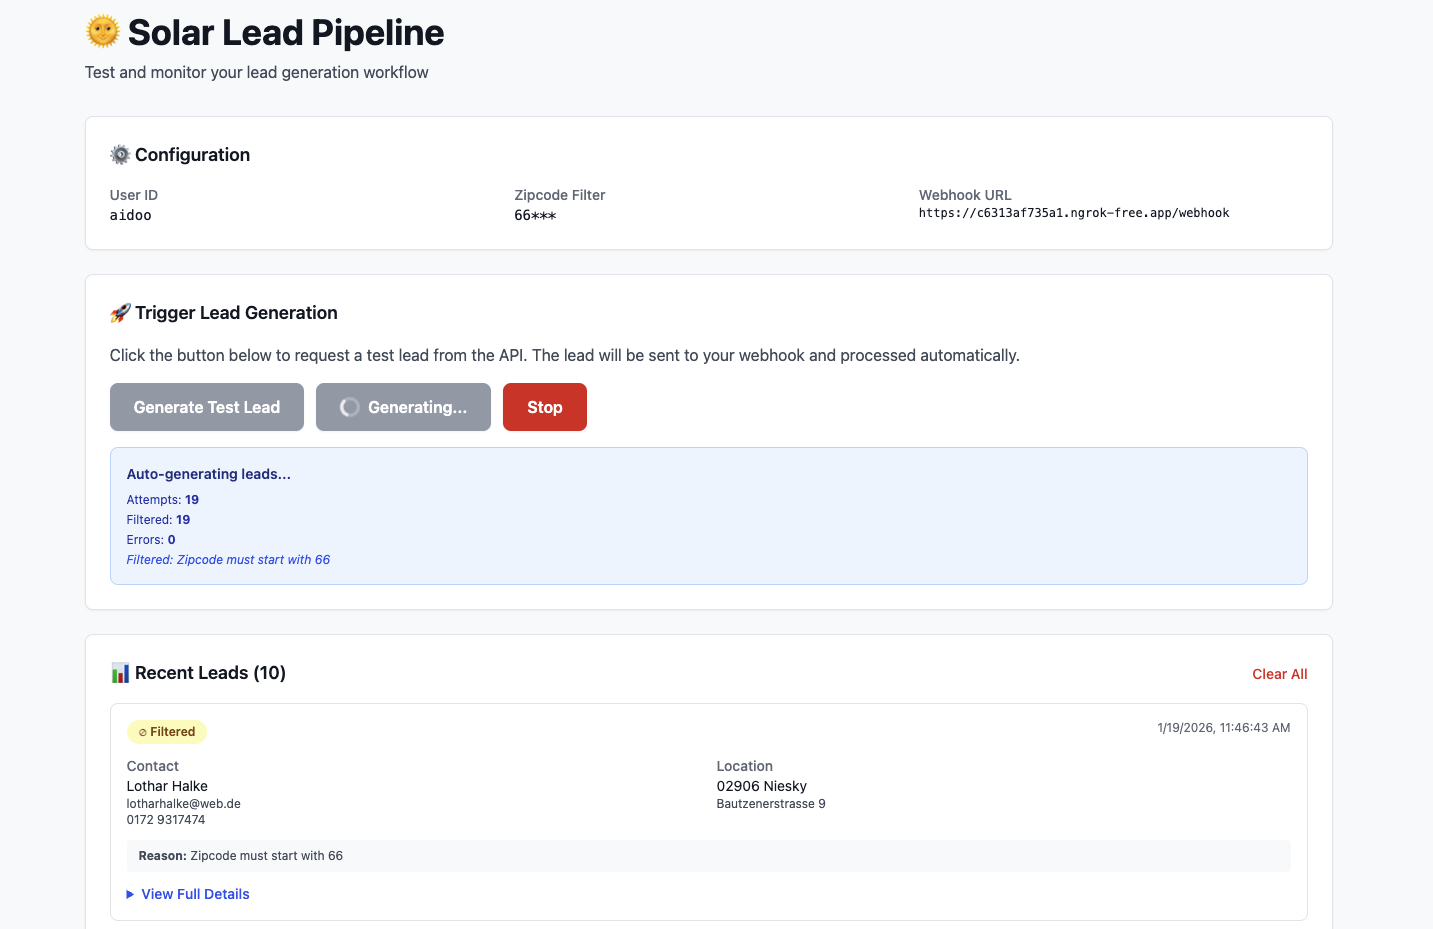
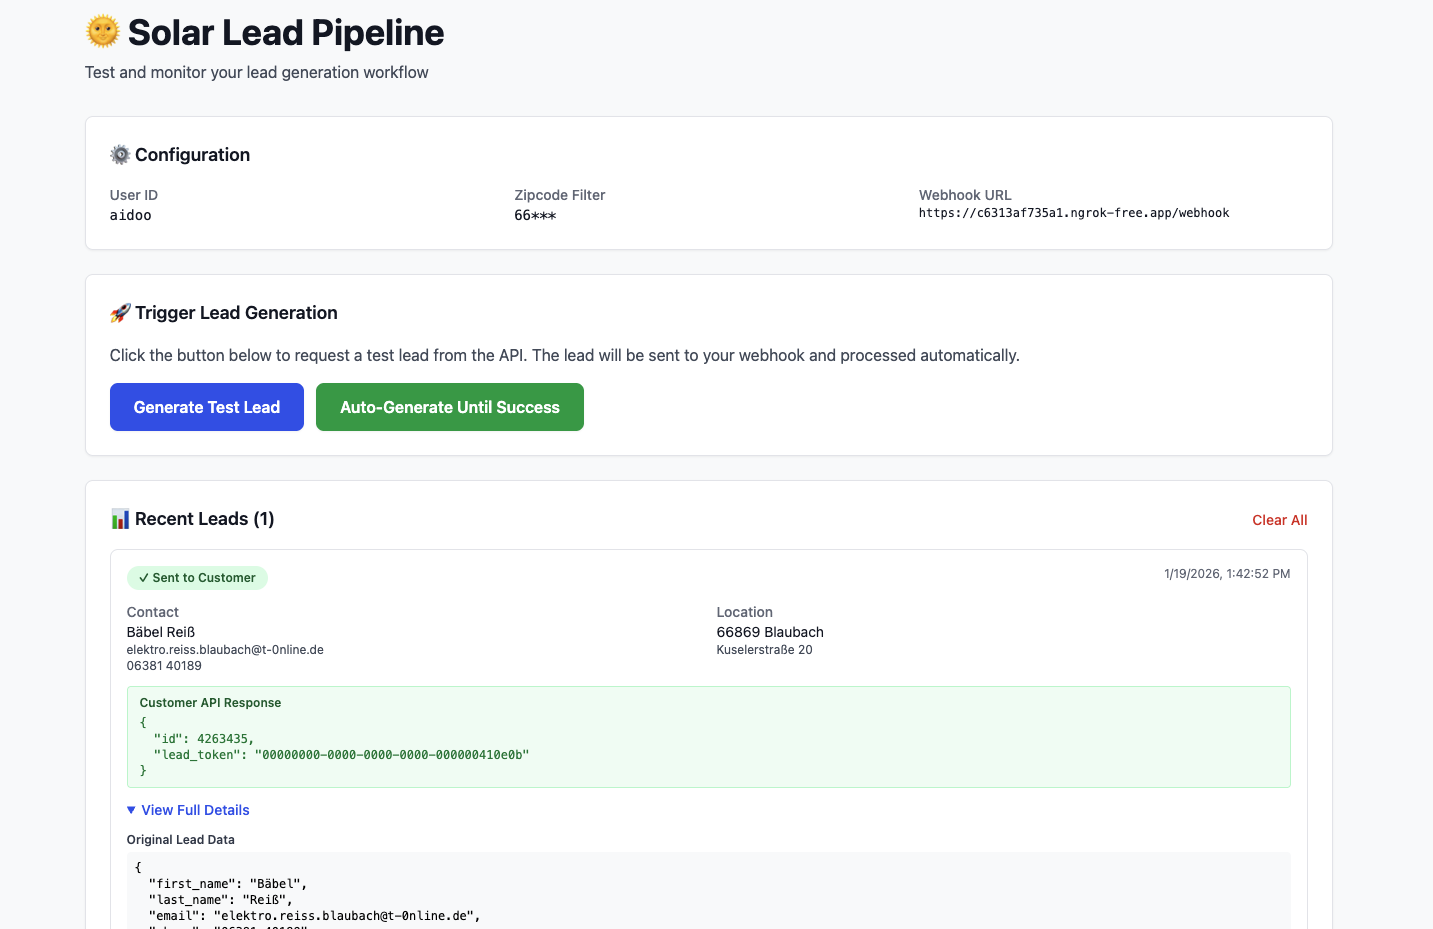
update mapping logic

diff --git a/index.js b/index.js
@@ -20,135 +20,6 @@ const ZIPCODE_PREFIX = "66"
 let recentLeads = []
 const MAX_RECENT_LEADS = 10
 
-// Mappings generated by AI
-const QUESTION_TO_ATTRIBUTE_MAPPING = {
-	"Sind Sie Eigentümer der Immobilie?": {
-		attribute: "solar_owner",
-		valueMapping: {
-			"Ja": "Ja",
-			"ja": "Ja",
-			"true": "Ja",
-			"Nein": "Nein",
-			"nein": "Nein",
-			"false": "Nein",
-			"In Auftrag": "In Auftrag"
-		}
-	},
-	"Welche Dachform haben Sie auf Ihrem Haus?": {
-		attribute: "solar_roof_type",
-		valueMapping: {
-			"Satteldach": "Satteldach",
-			"Flachdach": "Flachdach",
-			"Pultdach": "Pultdach",
-			"Walmdach": "Walmdach",
-			"Mansardendach": "Mansardendach",
-			"Andere": "Andere",
-			"Kaffeemühlenhaus": "Kaffeemühlenhaus",
-			"Krüppelwalmdach": "Krüppelwalmdach",
-			"Versetztes Pultdach": "Versetztes Pultdach",
-			"Winkelwalmdach": "Winkelwalmdach",
-			"Zwerchdach": "Zwerchdach"
-		}
-	},
-	"Wie hoch schätzen Sie ihren Stromverbrauch?": {
-		attribute: "solar_energy_consumption",
-		valueMapping: null
-	},
-	"Wo möchten Sie die Solaranlage installieren?": {
-		attribute: "solar_property_type",
-		valueMapping: {
-			"Einfamilienhaus": "Einfamilienhaus",
-			"Zweifamilienhaus": "Zweifamilienhaus",
-			"Mehrfamilienhaus": "Mehrfamilienhaus",
-			"Mehrfamilienhaus / Wohnanlage": "Mehrfamilienhaus",
-			"Firmengebäude": "Firmengebäude",
-			"Freilandfläche": "Freilandfläche",
-			"Garage": "Garage",
-			"Carport": "Carport",
-			"Scheune/Landwirtschaft": "Scheune/Landwirtschaft",
-			"Lagerhalle": "Lagerhalle",
-			"Industrie": "Industrie"
-		}
-	},
-	"Wie alt ist Ihr Dach?": {
-		attribute: "solar_roof_age",
-		valueMapping: {
-			"Vor 1990": "Älter als 30 Jahre",
-			"Älter als 30 Jahre": "Älter als 30 Jahre",
-			"Jünger als 30 Jahre": "Jünger als 30 Jahre",
-			"Gerade erst gebaut": "Gerade erst gebaut",
-			"Erst in Planung": "Erst in Planung"
-		}
-	},
-	"Dachmaterial": {
-		attribute: "solar_roof_material",
-		valueMapping: {
-			"Dachziegel": "Dachziegel",
-			"Asbest": "Asbest",
-			"Bitumen": "Bitumen",
-			"Blech/Trapezblech": "Blech/Trapezblech",
-			"Gründach": "Gründach",
-			"Holzdach": "Holzdach",
-			"Kies": "Kies",
-			"Schiefer": "Schiefer",
-			"Schindeldach": "Schindeldach",
-			"Andere": "Andere"
-		}
-	},
-	"Dachausrichtung": {
-		attribute: "solar_south_location",
-		valueMapping: {
-			"Süd": "Süd",
-			"Süd/West": "Süd-West",
-			"Süd-West": "Süd-West",
-			"Süd/Ost": "Süd-Ost",
-			"Süd-Ost": "Süd-Ost",
-			"West": "West",
-			"Ost": "Ost",
-			"Ja": "Ja",
-			"Nein": "Nein",
-			"Teilweise": "Teilweise",
-			"Nicht sicher": "Nicht sicher",
-			"Keine (Flachdach)": "Keine (Flachdach)"
-		}
-	},
-	"Stromspeicher gewünscht": {
-		attribute: "solar_power_storage",
-		valueMapping: {
-			"Ja": "Ja",
-			"ja": "Ja",
-			"Nein": "Nein",
-			"nein": "Nein",
-			"Noch nicht sicher": "Noch nicht sicher",
-			"Nicht sicher": "Noch nicht sicher"
-		}
-	},
-	"Finanzierung": {
-		attribute: "solar_offer_type",
-		valueMapping: {
-			"Kaufen": "Kaufen",
-			"Mieten": "Mieten",
-			"Beides interessant": "Beides interessant",
-			"Nicht sicher": "Beides interessant"
-		}
-	},
-	"Dachfläche": {
-		attribute: "solar_area",
-		valueMapping: null
-	}
-}
-
-const VALID_ATTRIBUTE_VALUES = {
-	solar_owner: ["Ja", "Nein", "In Auftrag"],
-	solar_roof_type: ["Andere", "Flachdach", "Kaffeemühlenhaus", "Krüppelwalmdach", "Mansardendach", "Pultdach", "Satteldach", "Versetztes Pultdach", "Walmdach", "Winkelwalmdach", "Zwerchdach"],
-	solar_property_type: ["Einfamilienhaus", "Zweifamilienhaus", "Mehrfamilienhaus", "Firmengebäude", "Freilandfläche", "Garage", "Carport", "Scheune/Landwirtschaft", "Lagerhalle", "Industrie"],
-	solar_roof_age: ["Erst in Planung", "Gerade erst gebaut", "Jünger als 30 Jahre", "Älter als 30 Jahre"],
-	solar_roof_material: ["Asbest", "Bitumen", "Blech/Trapezblech", "Dachziegel", "Gründach", "Holzdach", "Kies", "Schiefer", "Schindeldach", "Andere"],
-	solar_south_location: ["Ja", "Nein", "Teilweise", "Nicht sicher", "Keine (Flachdach)", "Süd", "Süd-West", "Süd-Ost", "West", "Ost"],
-	solar_power_storage: ["Ja", "Nein", "Noch nicht sicher"],
-	solar_offer_type: ["Beides interessant", "Mieten", "Kaufen"]
-}
-
 function isHouseOwner(lead) {
 	const ownershipQuestion = lead.questions["Sind Sie Eigentümer der Immobilie?"]
 	if (!ownershipQuestion) return false
@@ -166,53 +37,98 @@ function splitStreetAndHouseNumber(street) {
 	]
 }
 
-function mapLeadAttributes(questions) {
-	const attributes = {}
-	const unmappedWarnings = []
-	
-	for (const [question, answer] of Object.entries(questions)) {
-		if (!answer || answer === "") continue
-		
-		const mapping = QUESTION_TO_ATTRIBUTE_MAPPING[question]
-		if (!mapping) {
-			const warning = `No mapping found for question: "${question}"`
-			console.log(`[WARN] ${warning}`)
-			unmappedWarnings.push({ question, answer, reason: "question_not_mapped" })
-			continue
-		}
-		
-		const { attribute, valueMapping } = mapping
-		
-		if (valueMapping === null) {
-			const numericValue = String(answer).trim()
-			if (numericValue && !isNaN(numericValue)) {
-				attributes[attribute] = numericValue
-			} else {
-				const warning = `Invalid numeric value "${answer}" for attribute "${attribute}"`
-				console.log(`[WARN] ${warning}`)
-				unmappedWarnings.push({ question, answer, attribute, reason: "invalid_numeric" })
-			}
-			continue
-		}
-		
-		const mappedValue = valueMapping[answer]
-		if (mappedValue) {
-			if (VALID_ATTRIBUTE_VALUES[attribute] && 
-			    !VALID_ATTRIBUTE_VALUES[attribute].includes(mappedValue)) {
-				const warning = `Invalid value "${mappedValue}" for attribute "${attribute}"`
-				console.log(`[WARN] ${warning}`)
-				unmappedWarnings.push({ question, answer, attribute, mappedValue, reason: "invalid_dropdown_value" })
-				continue
-			}
-			attributes[attribute] = mappedValue
-		} else {
-			const warning = `No value mapping found for "${answer}" in question "${question}"`
-			console.log(`[WARN] ${warning}`)
-			unmappedWarnings.push({ question, answer, attribute, reason: "answer_not_mapped" })
-		}
-	}
-	
-	return { attributes, unmappedWarnings }
+// Mapping Code was generatied with AI
+const MAPPING_SCHEMA = {
+  // 1. Direct Question-to-Attribute Mappings
+  "Welche Dachform haben Sie auf Ihrem Haus?": {
+    target: "solar_roof_type",
+    fallback: "Andere",
+    options: ["Flachdach", "Satteldach", "Pultdach", "Walmdach", "Mansardendach", "Krüppelwalmdach"]
+  },
+  "Wie hoch schätzen Sie ihren Stromverbrauch?": {
+    target: "solar_energy_consumption",
+    type: "numeric",
+    fallback: 3500 // Average household consumption
+  },
+  "Sind Sie Eigentümer der Immobilie?": {
+    target: "solar_owner",
+    fallback: "Ja",
+    options: ["Ja", "Nein", "In Auftrag"]
+  },
+  "Wo möchten Sie die Solaranlage installieren?": {
+    target: "solar_property_type",
+    fallback: "Einfamilienhaus",
+    options: ["Einfamilienhaus", "Zweifamilienhaus", "Mehrfamilienhaus", "Firmengebäude"]
+  },
+  "Wie alt ist Ihr Dach?": {
+    target: "solar_roof_age",
+    fallback: "Jünger als 30 Jahre",
+    customLogic: (val) => val.includes("1990") ? "Älter als 30 Jahre" : "Jünger als 30 Jahre"
+  },
+  "Dachmaterial": {
+    target: "solar_roof_material",
+    fallback: "Dachziegel",
+    options: ["Dachziegel", "Bitumen", "Schiefer", "Blech/Trapezblech"]
+  },
+  "Dachausrichtung": {
+    target: "solar_south_location",
+    fallback: "Nicht sicher",
+    options: ["Süd", "West", "Ost", "Süd-West", "Süd-Ost"]
+  },
+  "Stromspeicher gewünscht": {
+    target: "solar_power_storage",
+    fallback: "Noch nicht sicher",
+    options: { "ja": "Ja", "nein": "Nein", "nicht sicher": "Noch nicht sicher" }
+  },
+  "Dachfläche": {
+    target: "solar_area",
+    type: "numeric",
+    fallback: 60
+  }
+}
+
+const SYSTEM_DEFAULTS = {
+  solar_offer_type: "Beides interessant", // Maximize conversion options
+  solar_roof_condition: "Guter Zustand",   // standard lead assumption
+  solar_usage: "Netzeinspeisung und Eigenverbrauch", // industry standard for PV
+  solar_monthly_electricity_bill: 120 // Derived average if not provided
+}
+
+function mapLeadAttributes(sourceData) {
+  const result = { ...SYSTEM_DEFAULTS }
+
+  for (const [question, config] of Object.entries(MAPPING_SCHEMA)) {
+    const rawValue = sourceData[question]
+    
+    // Numeric handling
+    if (config.type === "numeric") {
+      result[config.target] = parseInt(rawValue?.replace(/\D/g, '')) || config.fallback
+      continue
+    }
+
+    // Logic-based mapping
+    if (config.customLogic && rawValue) {
+      result[config.target] = config.customLogic(rawValue)
+      continue
+    }
+
+    // Enum matching
+    if (rawValue) {
+      const cleanInput = rawValue.toLowerCase()
+      if (Array.isArray(config.options)) {
+        const match = config.options.find(opt => cleanInput.includes(opt.toLowerCase()))
+        result[config.target] = match || config.fallback
+      } else {
+        // Keyword object matching
+        const match = Object.entries(config.options).find(([key]) => cleanInput.includes(key))
+        result[config.target] = match ? match[1] : config.fallback
+      }
+    } else {
+      result[config.target] = config.fallback
+    }
+  }
+
+  return result
 }
 
 function normalizePhone(phone) {
@@ -403,13 +319,7 @@ app.post("/webhook", async (req, res) => {
 		console.log(`[PASS] Lead passed filters (zipcode: ${newLead.zipcode}, owner: yes)`)
 		
 		// Step 3: Transform lead
-		const { attributes: leadAttributes, unmappedWarnings } = mapLeadAttributes(newLead.questions || {})
-		
-		if (unmappedWarnings.length > 0) {
-			console.log(`[WARN] Lead has ${unmappedWarnings.length} unmapped values:`, 
-			            JSON.stringify(unmappedWarnings, null, 2))
-			leadResult.warnings = unmappedWarnings
-		}
+		const leadAttributes = mapLeadAttributes(newLead.questions || {})
 		
 		const [street, housenumber] = splitStreetAndHouseNumber(newLead.street)
 		
@@ -475,7 +385,6 @@ app.post("/webhook", async (req, res) => {
 				message: "Lead sent to customer API",
 				lead_id: newLead.created_at,
 				customer_response: result.data,
-				warnings: unmappedWarnings.length > 0 ? unmappedWarnings : undefined
 			})
 		} else {
 			leadResult.status = "error"

diff --git a/README.md b/README.md
@@ -27,4 +27,64 @@ API_BASE_URL=
 ```
 
 ## What would make the customer even more happy
-- I believe that given the customer attribute mapping json file, the customer will be very happy if the answers to the questions from the leads are cleanly mapped to those JSON files. I demonstrated a basic solution where the questions are mapped to the attributes and the answers are compared to the possible valid answers. Those that match are then added to the `lead_attributes` json. A great alternative would be to leverage AI to do this mapping for us.
+- I believe that given the customer attribute mapping json file, the customer will be very happy if the answers to the questions from the leads are cleanly mapped to those JSON files. I demonstrated a basic solution where the questions are mapped to the attributes and the answers are compared to the possible valid answers based on substrings or complete matches. More of in the next section.
+- 
+
+## How the mapping from question to customer attribute mapping works
+In a real system, a much more robust approach would be taken. The API requires enum values to be present so I chose some sensible default values. Here is the mapping used, fallbacks and default values:
+```javascript
+const MAPPING_SCHEMA = {
+  "Welche Dachform haben Sie auf Ihrem Haus?": {
+    target: "solar_roof_type",
+    fallback: "Andere",
+    options: ["Flachdach", "Satteldach", "Pultdach", "Walmdach", "Mansardendach", "Krüppelwalmdach"]
+  },
+  "Wie hoch schätzen Sie ihren Stromverbrauch?": {
+    target: "solar_energy_consumption",
+    type: "numeric",
+    fallback: 3500 // Average household consumption
+  },
+  "Sind Sie Eigentümer der Immobilie?": {
+    target: "solar_owner",
+    fallback: "Ja",
+    options: ["Ja", "Nein", "In Auftrag"]
+  },
+  "Wo möchten Sie die Solaranlage installieren?": {
+    target: "solar_property_type",
+    fallback: "Einfamilienhaus",
+    options: ["Einfamilienhaus", "Zweifamilienhaus", "Mehrfamilienhaus", "Firmengebäude"]
+  },
+  "Wie alt ist Ihr Dach?": {
+    target: "solar_roof_age",
+    fallback: "Jünger als 30 Jahre",
+    customLogic: (val) => val.includes("1990") ? "Älter als 30 Jahre" : "Jünger als 30 Jahre"
+  },
+  "Dachmaterial": {
+    target: "solar_roof_material",
+    fallback: "Dachziegel",
+    options: ["Dachziegel", "Bitumen", "Schiefer", "Blech/Trapezblech"]
+  },
+  "Dachausrichtung": {
+    target: "solar_south_location",
+    fallback: "Nicht sicher",
+    options: ["Süd", "West", "Ost", "Süd-West", "Süd-Ost"]
+  },
+  "Stromspeicher gewünscht": {
+    target: "solar_power_storage",
+    fallback: "Noch nicht sicher",
+    options: { "ja": "Ja", "nein": "Nein", "nicht sicher": "Noch nicht sicher" }
+  },
+  "Dachfläche": {
+    target: "solar_area",
+    type: "numeric",
+    fallback: 60
+  }
+}
+
+const SYSTEM_DEFAULTS = {
+  solar_offer_type: "Beides interessant", // Maximize conversion options
+  solar_roof_condition: "Guter Zustand",   // standard lead assumption
+  solar_usage: "Netzeinspeisung und Eigenverbrauch", // industry standard for PV
+  solar_monthly_electricity_bill: 120 // Derived average if not provided
+}
+``` 
